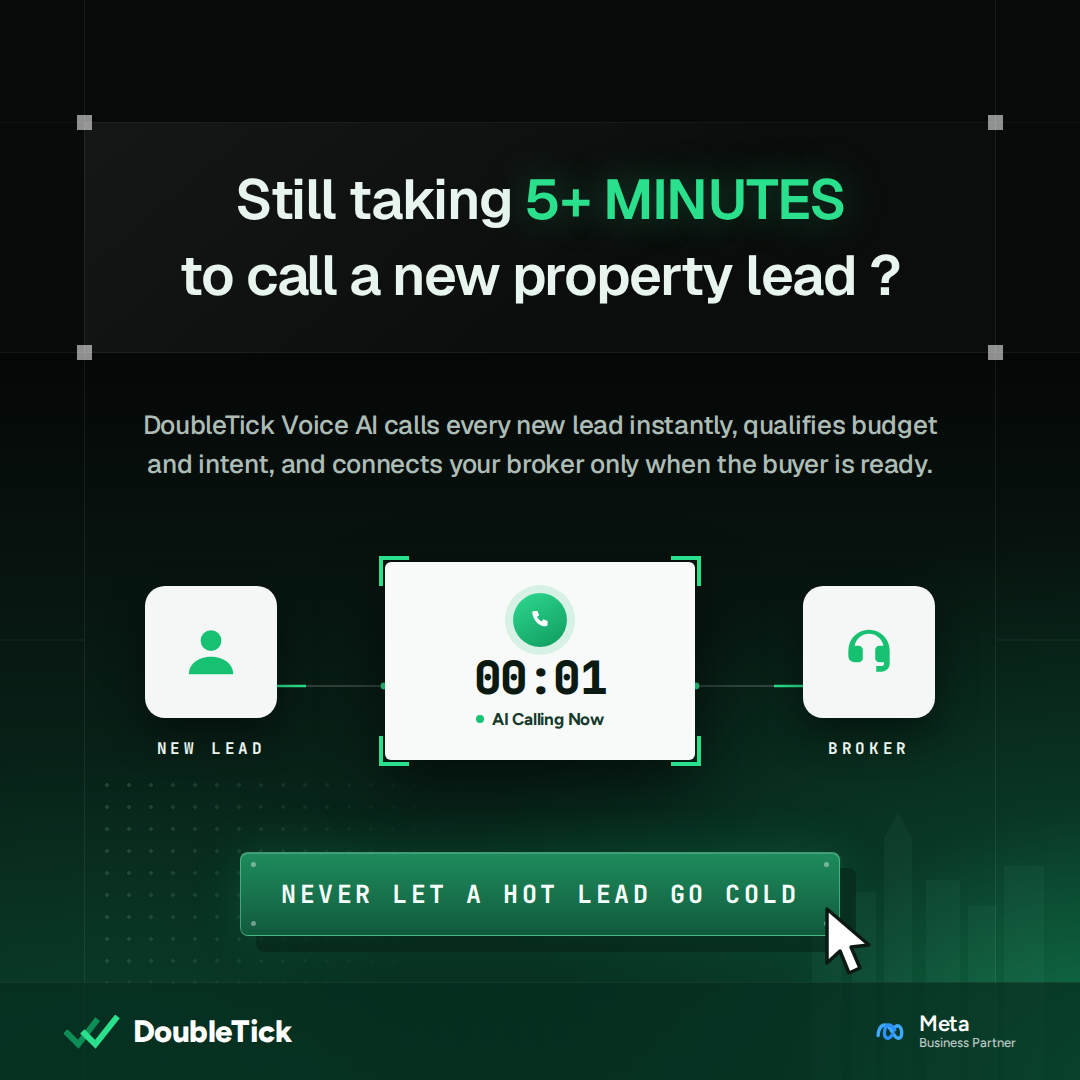
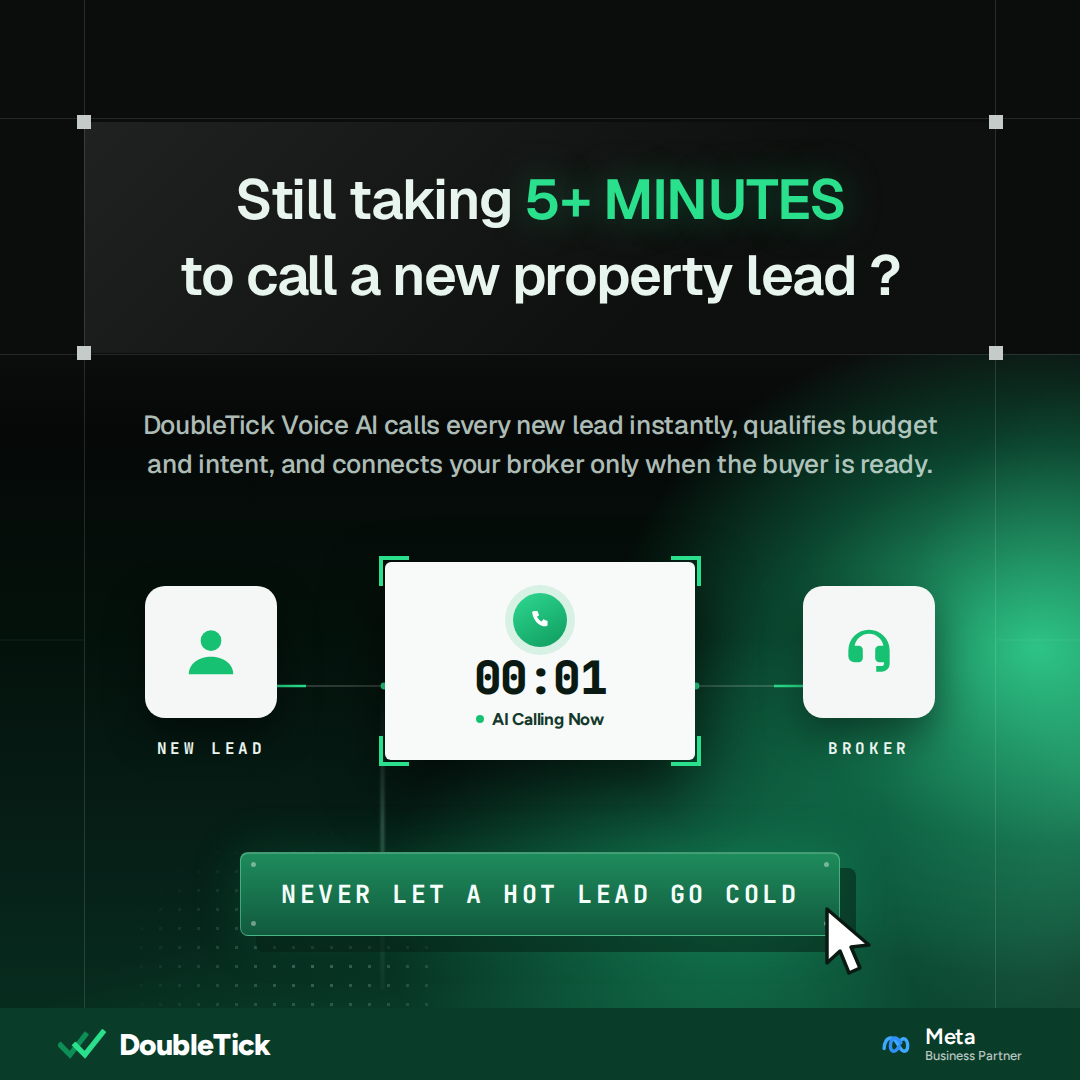
style: rebuild minimal ad on the supplied background plate
Background now matches the supplied artwork: black top band with the framed
headline panel and grey corner marks, full-height frame lines, rules at 118
and 354, emerald glow weighted to the right, dot matrix and light beam at the
lower left, and the solid green footer band. All copy and the three-step
visual sit above the footer, which stays untouched.

Claude-Session: https://claude.ai/code/session_01QonDQzFTb9kYuJLQdrF9sV

diff --git a/creatives/doubletick-speed-to-lead/ad-minimal.html b/creatives/doubletick-speed-to-lead/ad-minimal.html
@@ -25,32 +25,37 @@ body{-webkit-font-smoothing:antialiased}
   position:relative;width:1080px;height:1080px;overflow:hidden;
   font-family:'Figtree',system-ui,sans-serif;color:#fff;
   background:
-    radial-gradient(105% 80% at 104% 100%, rgba(22,170,108,.62) 0%, rgba(11,88,58,.34) 32%, rgba(0,0,0,0) 64%),
-    radial-gradient(70% 55% at 10% 104%, rgba(13,104,68,.34) 0%, rgba(0,0,0,0) 62%),
-    linear-gradient(180deg,#050706 0%, #050706 33%, #07130E 52%, #08251A 76%, #093121 100%);
+    radial-gradient(52% 40% at 96% 60%, rgba(52,232,158,.78) 0%, rgba(20,150,100,.42) 46%, rgba(0,0,0,0) 76%),
+    radial-gradient(44% 34% at 68% 84%, rgba(30,192,128,.50) 0%, rgba(0,0,0,0) 74%),
+    radial-gradient(26% 52% at 100% 72%, rgba(90,245,180,.34) 0%, rgba(0,0,0,0) 70%),
+    radial-gradient(76% 46% at 46% 116%, rgba(16,120,80,.50) 0%, rgba(0,0,0,0) 74%),
+    linear-gradient(180deg,#0B0D0C 0%, #0B0D0C 33%, #050807 40%, #04110B 58%, #062018 80%, #073322 100%);
 }
 /* black band across the top, exactly as the reference */
-.band{position:absolute;left:0;right:0;top:0;height:352px;background:#080A09;z-index:1}
+.band{position:absolute;left:0;right:0;top:0;height:354px;background:#0B0D0C;z-index:1}
 .bg{position:absolute;inset:0;z-index:2;pointer-events:none}
-.frame{position:absolute;top:0;bottom:0;width:1px;background:rgba(255,255,255,.07)}
+.frame{position:absolute;top:0;bottom:0;width:1px;background:rgba(255,255,255,.13)}
 .frame.l{left:84px}.frame.r{right:84px}
-.rule{position:absolute;left:0;right:0;height:1px;background:rgba(255,255,255,.07)}
+.rule{position:absolute;left:0;right:0;height:1px;background:rgba(255,255,255,.11)}
 .dots{
-  position:absolute;left:96px;bottom:96px;width:400px;height:210px;
-  background-image:radial-gradient(rgba(180,230,205,.30) 1.6px, transparent 1.6px);
-  background-size:22px 22px;
-  -webkit-mask-image:linear-gradient(105deg,#000 0%,rgba(0,0,0,.25) 62%,transparent 88%);
-          mask-image:linear-gradient(105deg,#000 0%,rgba(0,0,0,.25) 62%,transparent 88%);
-  opacity:.55;
+  position:absolute;left:132px;top:786px;width:300px;height:228px;
+  background-image:radial-gradient(rgba(198,240,220,.55) 1.7px, transparent 1.7px);
+  background-size:19px 19px;
+  -webkit-mask-image:radial-gradient(78% 70% at 62% 78%, #000 0%, rgba(0,0,0,.35) 58%, transparent 86%);
+          mask-image:radial-gradient(78% 70% at 62% 78%, #000 0%, rgba(0,0,0,.35) 58%, transparent 86%);
+  opacity:.50;
 }
+.beam{position:absolute;left:381px;top:690px;width:3px;height:300px;
+  background:linear-gradient(180deg, rgba(190,255,225,0) 0%, rgba(190,255,225,.30) 45%, rgba(190,255,225,.05) 100%);
+  filter:blur(1.4px)}
 
 /* headline panel inside the black band */
 .panel{
   position:absolute;z-index:3;left:84px;right:84px;top:122px;height:231px;
-  background:linear-gradient(140deg, rgba(255,255,255,.055), rgba(255,255,255,.012) 62%);
+  background:linear-gradient(135deg, rgba(255,255,255,.085), rgba(255,255,255,.012) 66%);
   display:flex;align-items:center;justify-content:center;text-align:center;
 }
-.mark{position:absolute;width:15px;height:15px;background:rgba(255,255,255,.55)}
+.mark{position:absolute;width:14px;height:14px;background:#C5CBC8}
 .mark.tl{top:-7px;left:-7px}.mark.tr{top:-7px;right:-7px}
 .mark.bl{bottom:-7px;left:-7px}.mark.br{bottom:-7px;right:-7px}
 .h1{font-family:'Geist',system-ui,sans-serif;font-size:56px;font-weight:600;line-height:1.34;letter-spacing:-1.1px;color:var(--head)}
@@ -112,10 +117,10 @@ body{-webkit-font-smoothing:antialiased}
 .cursor{position:absolute;right:-42px;bottom:-48px}
 
 /* footer */
-.footer{position:absolute;z-index:3;left:0;right:0;bottom:0;height:98px;background:rgba(5,44,30,.72);
-  display:flex;align-items:center;justify-content:space-between;padding:0 64px;border-top:1px solid rgba(255,255,255,.06)}
+.footer{position:absolute;z-index:3;left:0;right:0;bottom:0;height:72px;background:#0A3D29;
+  display:flex;align-items:center;justify-content:space-between;padding:0 58px}
 .logo{display:flex;align-items:center;gap:13px}
-.logo .word{font-size:31px;font-weight:800;letter-spacing:-.6px}
+.logo .word{font-size:30px;font-weight:800;letter-spacing:-.6px}
 .meta{display:flex;align-items:center;gap:10px}
 .meta .mt{line-height:1.1}
 .meta .mt b{display:block;font-size:22px;font-weight:600;letter-spacing:-.4px;color:#fff}
@@ -128,16 +133,13 @@ body{-webkit-font-smoothing:antialiased}
 
   <div class="bg">
     <div class="frame l"></div><div class="frame r"></div>
-    <div class="rule" style="top:352px"></div>
-    <div class="rule" style="top:122px;opacity:.55"></div>
+    <div class="rule" style="top:354px"></div>
+    <div class="rule" style="top:118px"></div>
+    <div class="beam"></div>
     <div class="dots"></div>
     <svg width="1080" height="1080" style="position:absolute;inset:0" fill="none">
       <g stroke="rgba(255,255,255,.07)" stroke-width="1">
         <path d="M0 640 H84 M996 640 H1080"/>
-      </g>
-      <!-- faint skyline, bottom right -->
-      <g opacity=".12" fill="rgba(150,240,200,.35)">
-        <path d="M812 1080 V856 h30 v224z M852 1080 V892 h24 v188z M884 1080 V838 l14-26 14 26 v242z M926 1080 V880 h34 v200z M968 1080 V906 h28 v174z M1004 1080 V866 h40 v214z"/>
       </g>
     </svg>
   </div>
@@ -208,7 +210,7 @@ body{-webkit-font-smoothing:antialiased}
 
   <div class="footer">
     <div class="logo">
-      <svg width="56" height="34" viewBox="0 0 58 36" fill="none">
+      <svg width="48" height="30" viewBox="0 0 58 36" fill="none">
         <path d="M3 19.5 L14.5 31 L33 7" stroke="#0E8E57" stroke-width="6.4" stroke-linecap="square"/>
         <path d="M21 19.5 L32.5 31 L54 4" stroke="#2BE08C" stroke-width="6.4" stroke-linecap="square"/>
       </svg>
